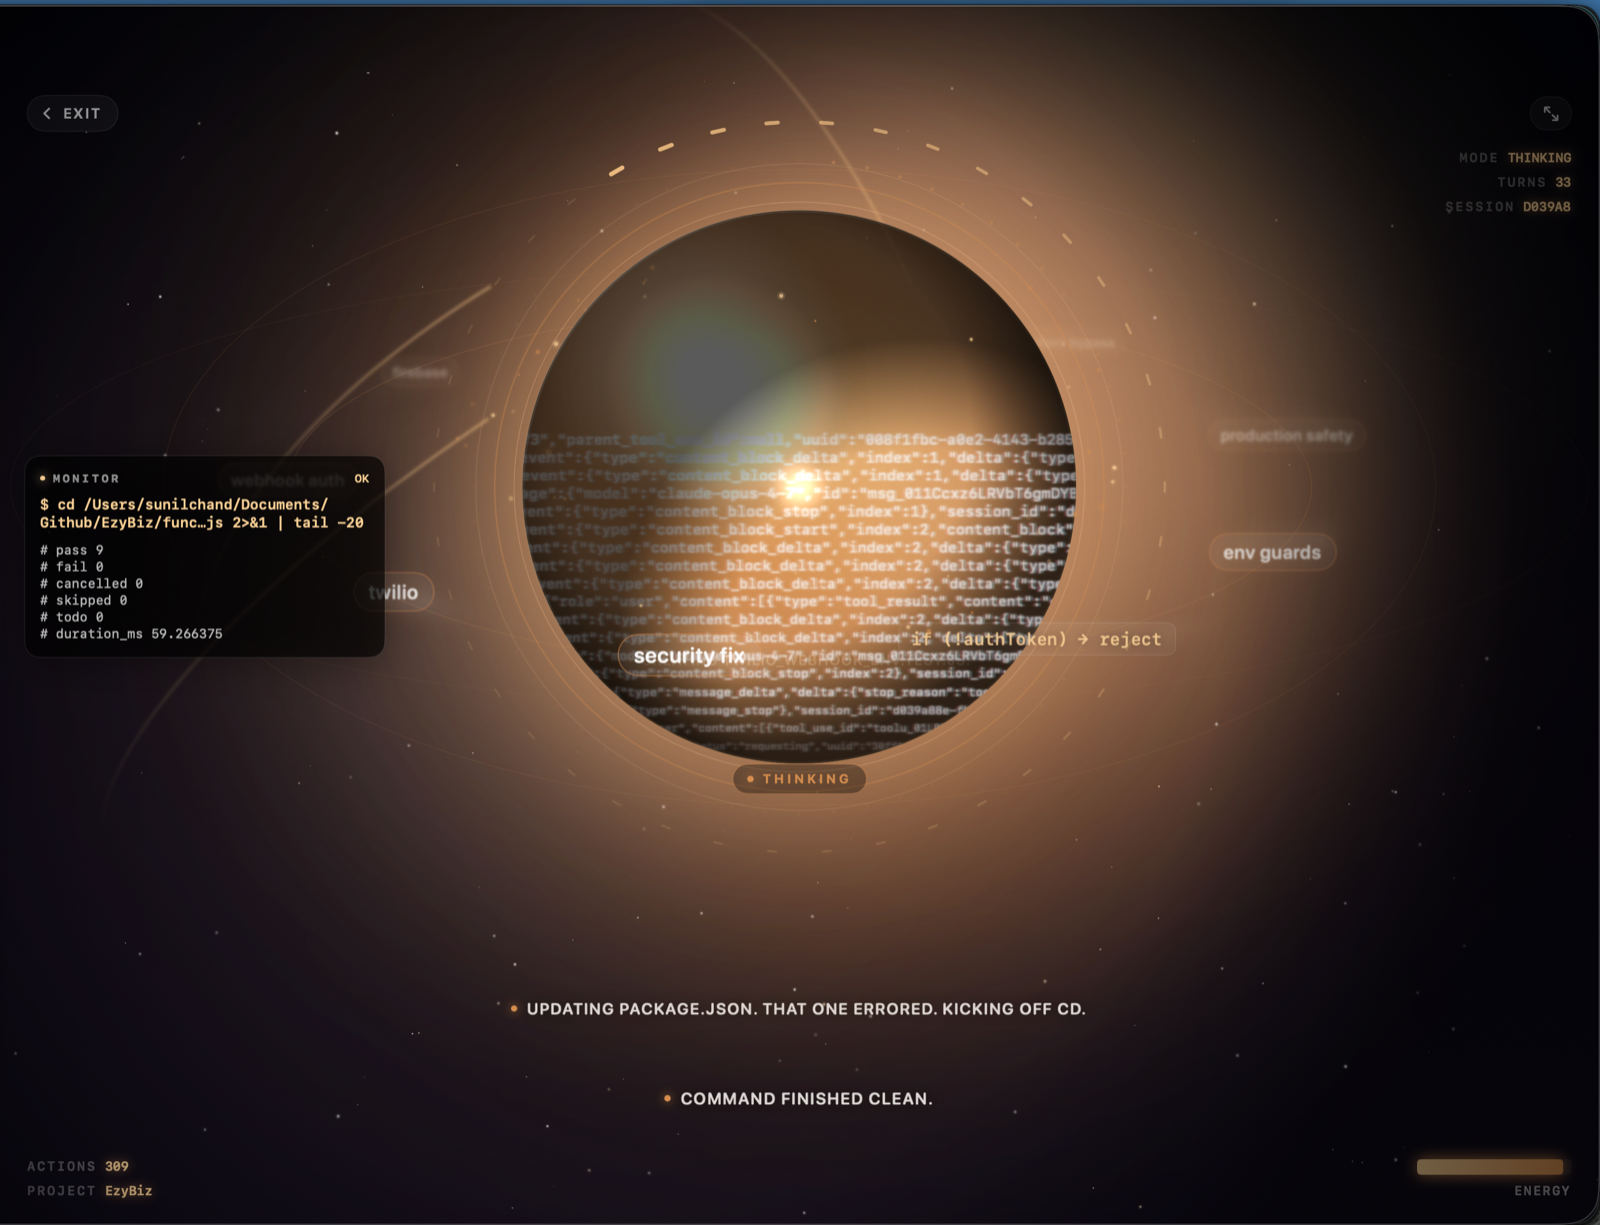
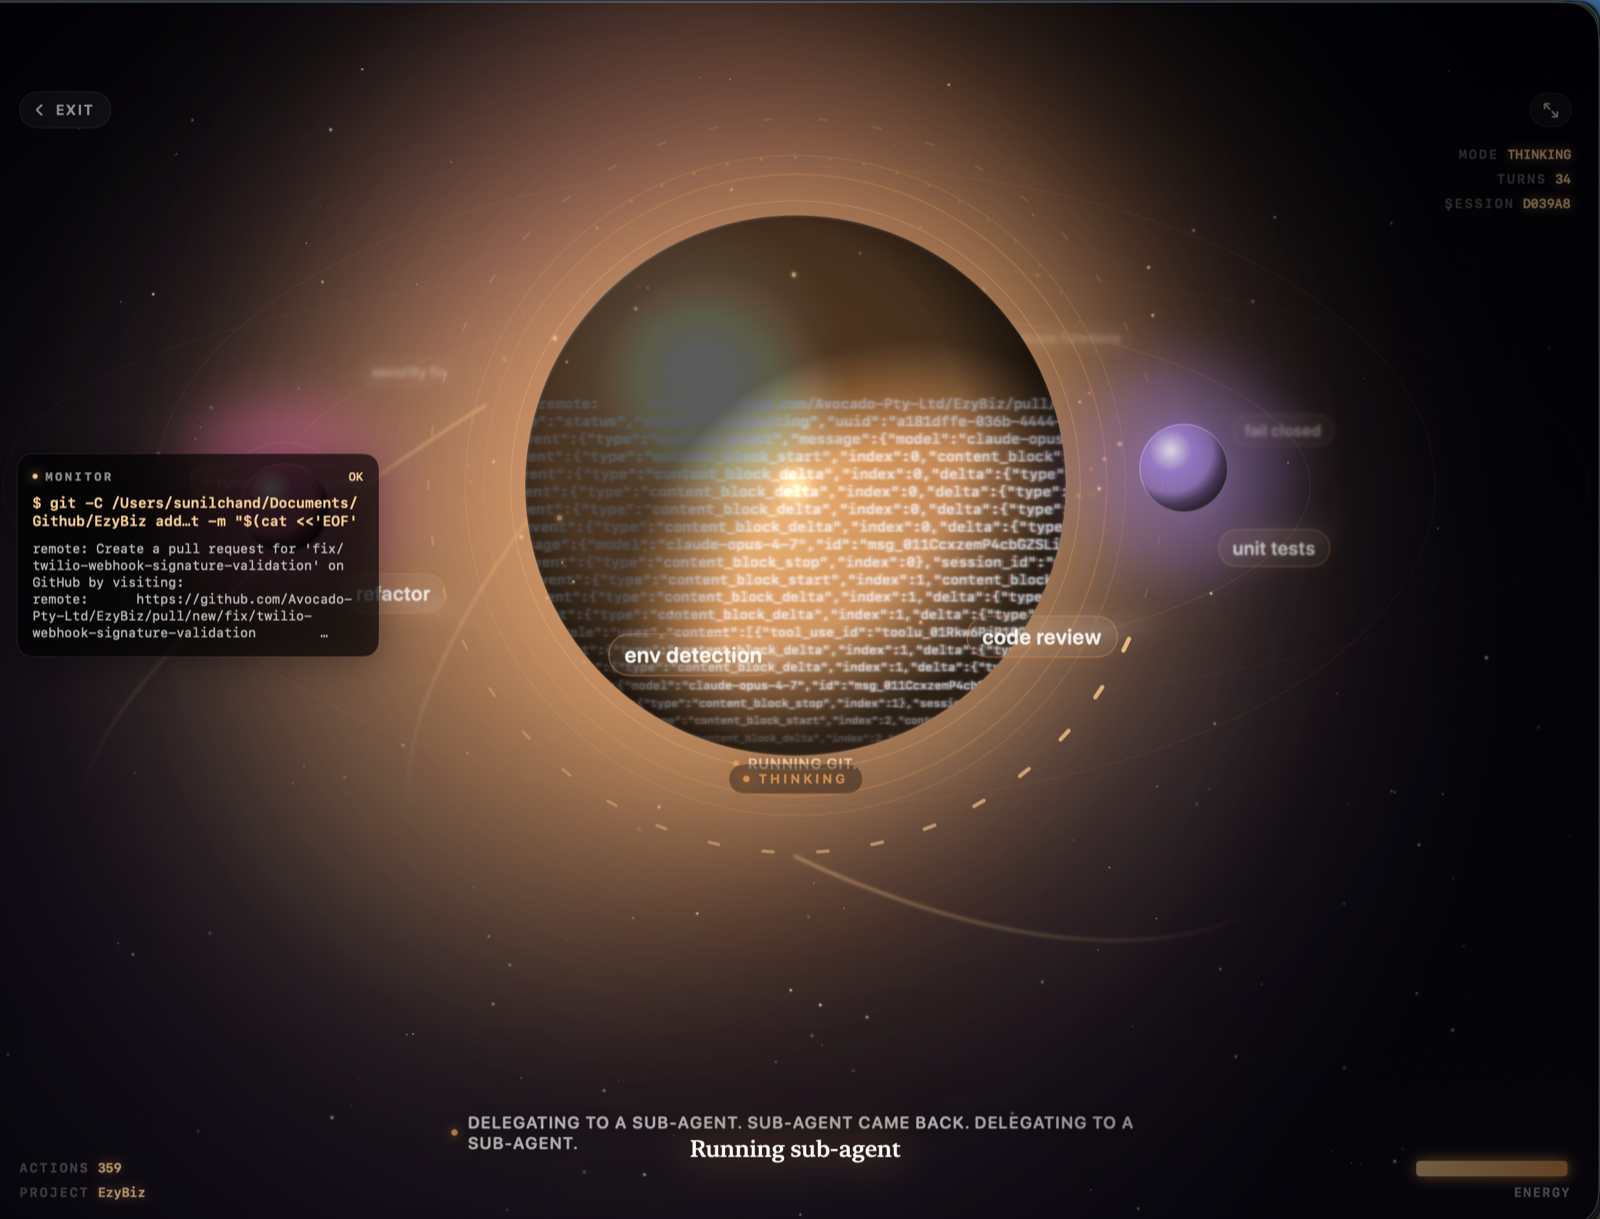
Swap in richer screenshot showing sub-agent sphere
New shot captures the delegated Task tool visualisation — the small
purple satellite sphere is one of the more distinctive UI elements
so it belongs in the hero image.

diff --git a/README.md b/README.md
@@ -2,9 +2,9 @@
 
 A native macOS front-end for [Claude Code](https://docs.claude.com/en/docs/claude-code) — the same agent, wrapped in a calm, video-like UI. Point it at any folder on your Mac and watch Claude work.
 
-![Claudette orb conversation mode — Claude thinking, with the raw stream-JSON refracting through the sphere, a live bash monitor panel, and orbiting idea satellites.](docs/screenshots/orb-thinking.png)
+![Claudette orb conversation mode — Claude thinking with a delegated sub-agent, the raw stream-JSON refracting through the sphere, a live bash monitor panel, orbiting idea satellites, and HUD readouts.](docs/screenshots/orb-thinking.png)
 
-*Orb conversation mode: press any key to talk. The sphere refracts the actual Claude Code JSON stream inside; short "beats" narrate what Claude is doing right now; the MONITOR panel tails the current bash tool; idea satellites orbit the sphere with the tags Haiku pulled out of the turn.*
+*Orb conversation mode: press any key to talk. The sphere refracts the actual Claude Code JSON stream inside; short "beats" narrate what Claude is doing right now; the MONITOR panel tails the current bash tool; idea satellites orbit the sphere with the tags Haiku pulled out of the turn; and each sub-agent Claude spawns pops out as its own small sphere with its own hue, then merges back on completion.*
 
 ## Why
 